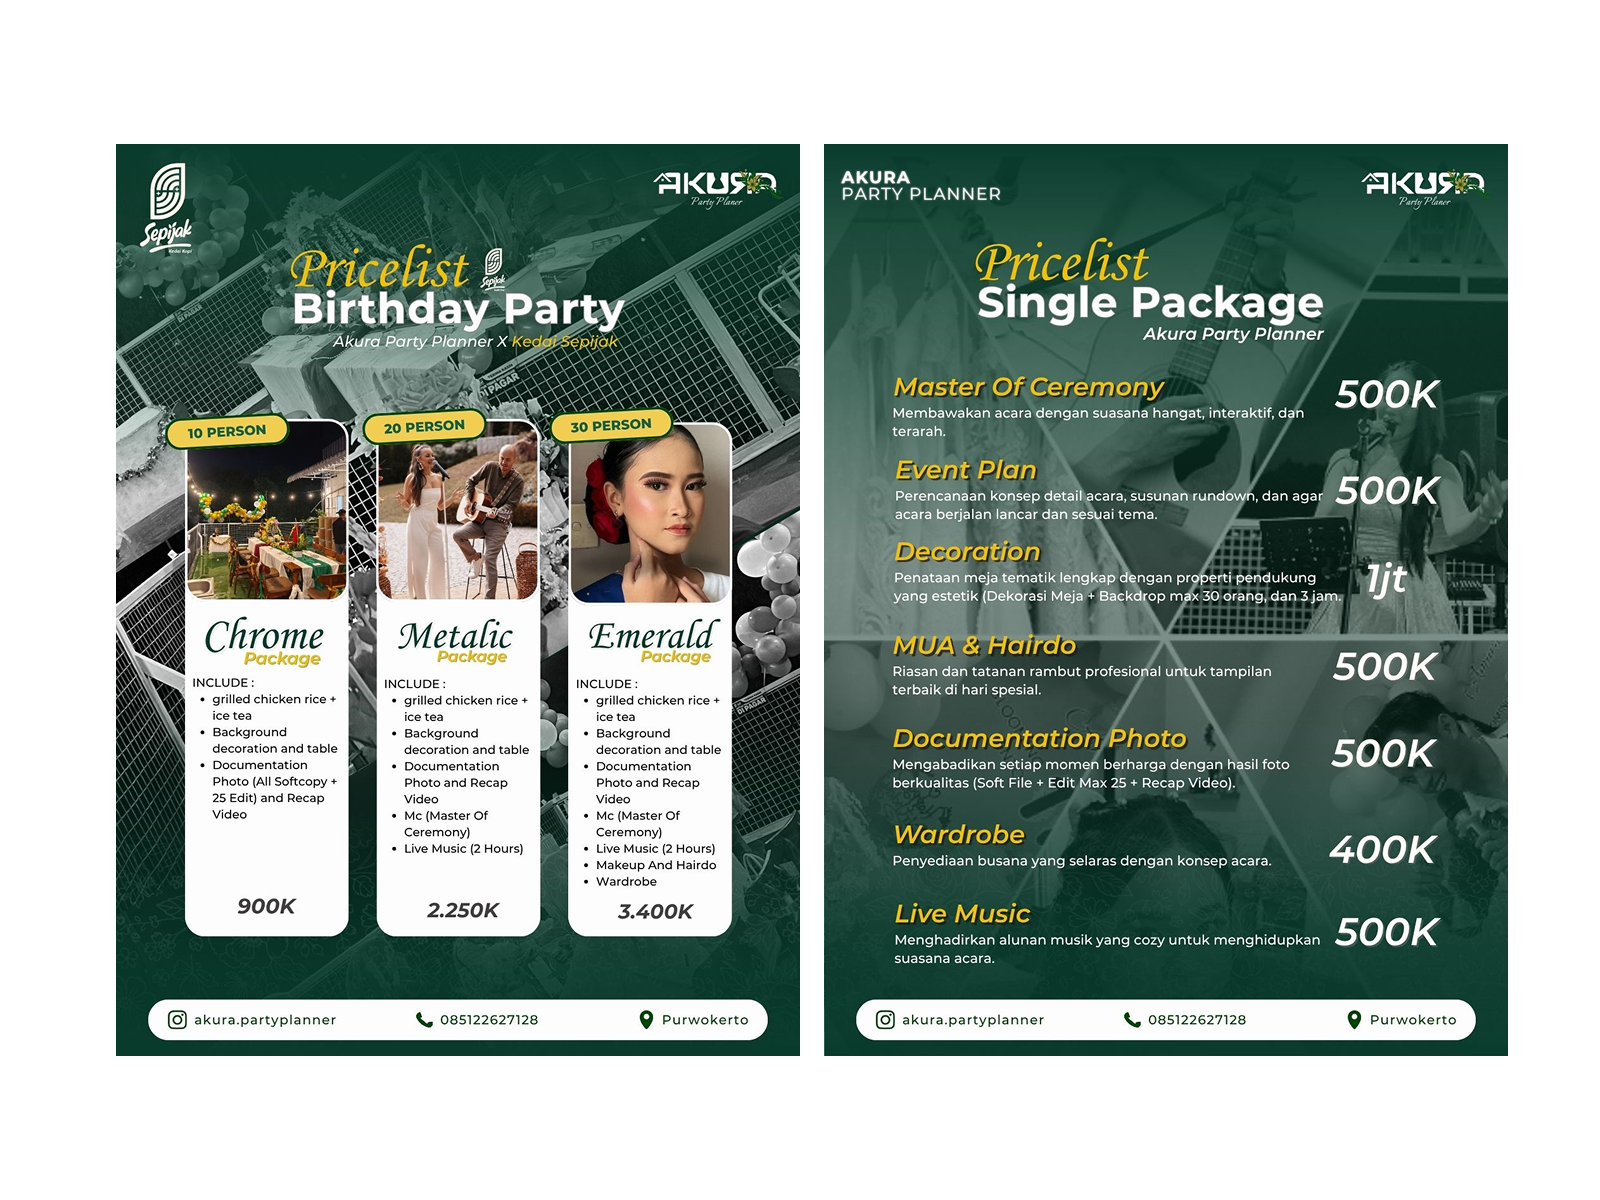
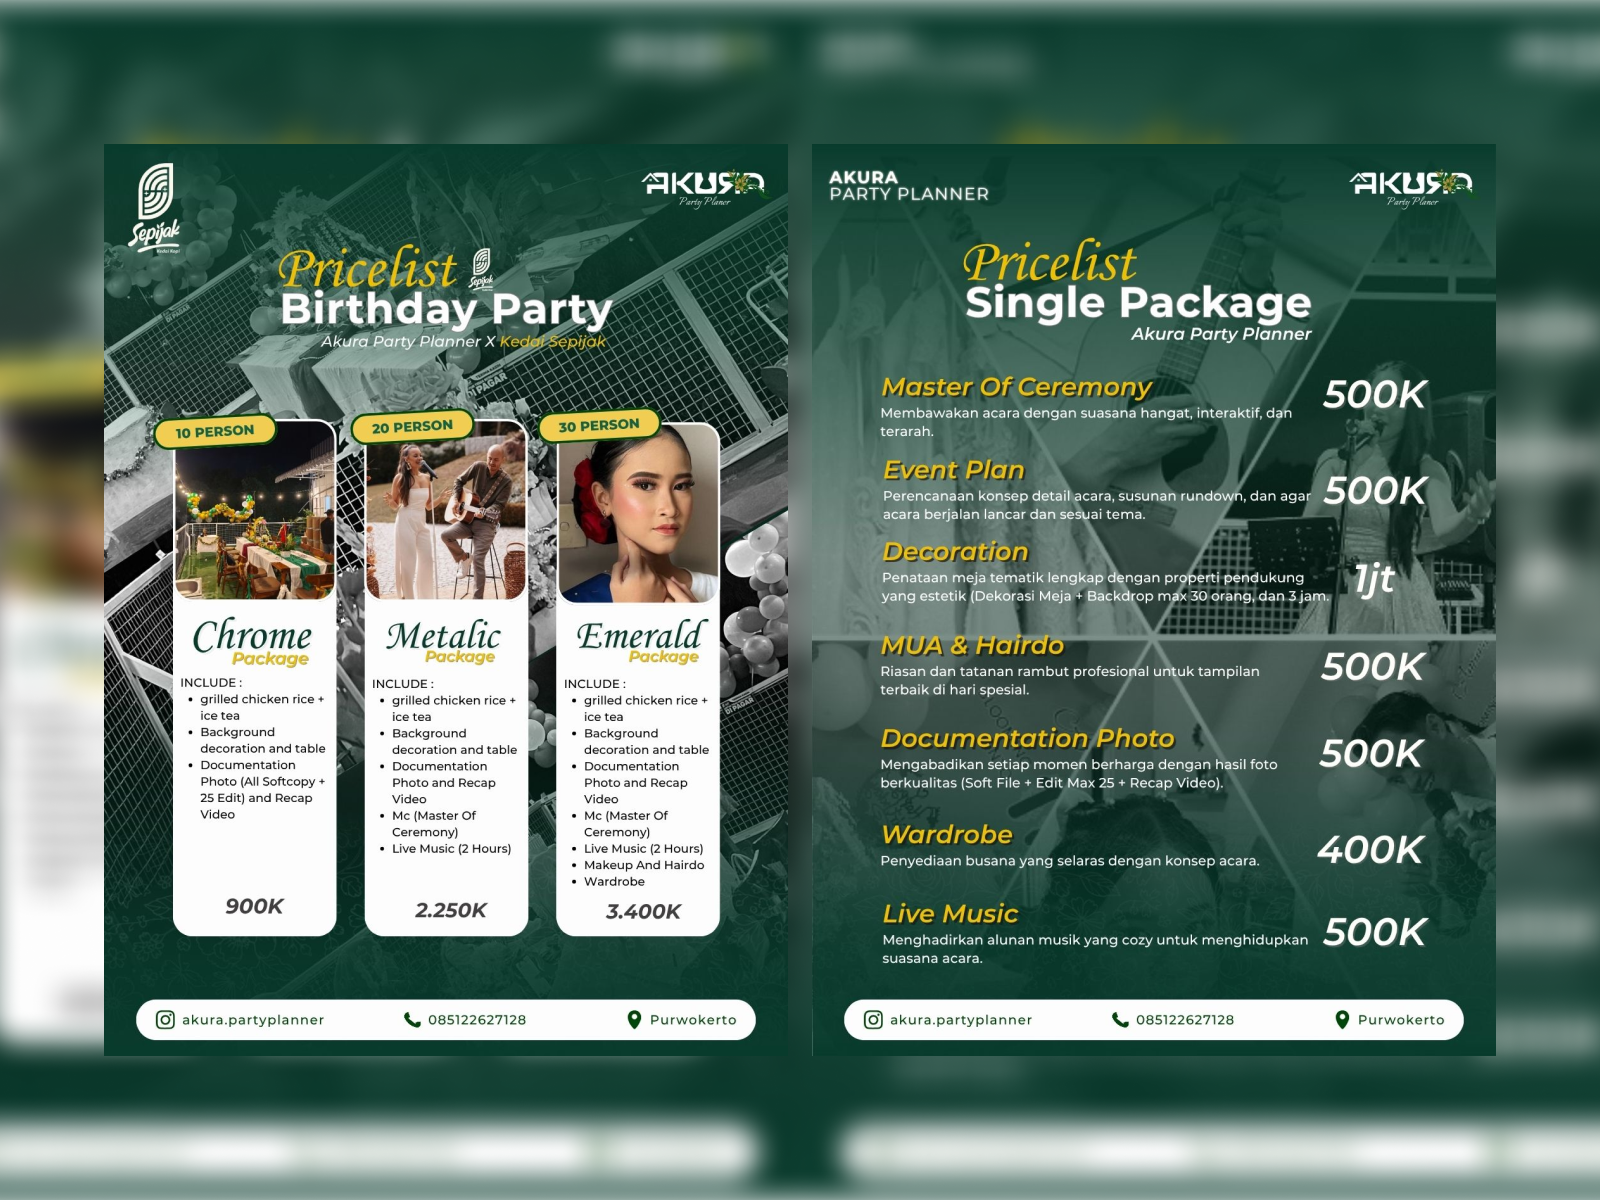
Update portfolio list view to use exp-list layout from home page

diff --git a/portfolio.js b/portfolio.js
@@ -145,7 +145,7 @@ document.addEventListener("DOMContentLoaded", () => {
   
   function attachProjectInteractions() {
     // Project Click Transition & Hover Preview
-    document.querySelectorAll(".work-card, .work-list-row").forEach((link) => {
+    document.querySelectorAll(".work-card, .exp-item").forEach((link) => {
       link.addEventListener("click", (e) => {
         e.preventDefault();
         const targetUrl = link.getAttribute("href");
@@ -169,7 +169,7 @@ document.addEventListener("DOMContentLoaded", () => {
         if (cursor) cursor.classList.add("active");
         
         // Project preview for list view
-        if (link.classList.contains("work-list-row")) {
+        if (link.classList.contains("exp-item")) {
           const img = link.getAttribute("data-image");
           if (img && projectImg) {
             projectImg.style.backgroundImage = `url(${img})`;
@@ -184,7 +184,7 @@ document.addEventListener("DOMContentLoaded", () => {
       link.addEventListener("mouseleave", () => {
         if (cursor) cursor.classList.remove("active");
         
-        if (projectWrapper && link.classList.contains("work-list-row")) {
+        if (projectWrapper && link.classList.contains("exp-item")) {
           projectWrapper.classList.remove("active");
           gsap.to(projectWrapper, { scale: 0, duration: 0.3, ease: "power2.in" });
         }
@@ -227,11 +227,14 @@ document.addEventListener("DOMContentLoaded", () => {
       `;
       
       listHTML += `
-        <a href="/project?id=${index}" class="work-list-row hover-target" data-index="${index}" data-image="${project.image || ''}">
-          <div class="col-client">${project.title}</div>
-          <div class="col-location">Indonesia</div>
-          <div class="col-services">${project.role}</div>
-          <div class="col-year">${year}</div>
+        <a href="/project?id=${index}" class="exp-item hover-target reveal-text" data-index="${index}" data-image="${project.image || ''}" style="text-decoration: none; color: inherit;">
+          <div class="exp-meta">
+            <span>${project.date}</span><br /><span>${project.role}</span>
+          </div>
+          <div class="exp-details">
+            <h3>${project.title}</h3>
+            <p>${project.description || ''}</p>
+          </div>
         </a>
       `;
     });

diff --git a/dist/portfolio.html b/dist/portfolio.html
@@ -23,8 +23,8 @@
       const savedTheme = localStorage.getItem("theme") || "dark";
       document.documentElement.setAttribute("data-theme", savedTheme);
     </script>
-    <script type="module" crossorigin src="/assets/portfolio-x9iqOiEy.js"></script>
-    <link rel="modulepreload" crossorigin href="/assets/data-Db1OtGvs.js">
+    <script type="module" crossorigin src="/assets/portfolio-Dtr4ReV3.js"></script>
+    <link rel="modulepreload" crossorigin href="/assets/data-CRjsNHo0.js">
     <link rel="stylesheet" crossorigin href="/assets/data-DhOPOipl.css">
   </head>
 
@@ -109,13 +109,7 @@
             </div>
             
             <div class="work-list" id="work-list" style="display: none;">
-              <div class="work-list-header">
-                <div class="col-client">CLIENT</div>
-                <div class="col-location">LOCATION</div>
-                <div class="col-services">SERVICES</div>
-                <div class="col-year">YEAR</div>
-              </div>
-              <div class="work-list-body" id="work-list-body">
+              <div class="exp-list" id="work-list-body">
                 <!-- Dynamically populated -->
               </div>
             </div>

diff --git a/portfolio.html b/portfolio.html
@@ -107,13 +107,7 @@
             </div>
             
             <div class="work-list" id="work-list" style="display: none;">
-              <div class="work-list-header">
-                <div class="col-client">CLIENT</div>
-                <div class="col-location">LOCATION</div>
-                <div class="col-services">SERVICES</div>
-                <div class="col-year">YEAR</div>
-              </div>
-              <div class="work-list-body" id="work-list-body">
+              <div class="exp-list" id="work-list-body">
                 <!-- Dynamically populated -->
               </div>
             </div>

diff --git a/dist/project.html b/dist/project.html
@@ -22,8 +22,8 @@
       const savedTheme = localStorage.getItem("theme") || "dark";
       document.documentElement.setAttribute("data-theme", savedTheme);
     </script>
-    <script type="module" crossorigin src="/assets/project-DSlcFSHD.js"></script>
-    <link rel="modulepreload" crossorigin href="/assets/data-Db1OtGvs.js">
+    <script type="module" crossorigin src="/assets/project-NjumZeGt.js"></script>
+    <link rel="modulepreload" crossorigin href="/assets/data-CRjsNHo0.js">
     <link rel="stylesheet" crossorigin href="/assets/data-DhOPOipl.css">
   </head>
   <body>

diff --git a/dist/index.html b/dist/index.html
@@ -23,8 +23,8 @@
       const savedTheme = localStorage.getItem("theme") || "dark";
       document.documentElement.setAttribute("data-theme", savedTheme);
     </script>
-    <script type="module" crossorigin src="/assets/main-ZeIIB9jK.js"></script>
-    <link rel="modulepreload" crossorigin href="/assets/data-Db1OtGvs.js">
+    <script type="module" crossorigin src="/assets/main-BTgHZQAW.js"></script>
+    <link rel="modulepreload" crossorigin href="/assets/data-CRjsNHo0.js">
     <link rel="stylesheet" crossorigin href="/assets/data-DhOPOipl.css">
   </head>
   <body>
